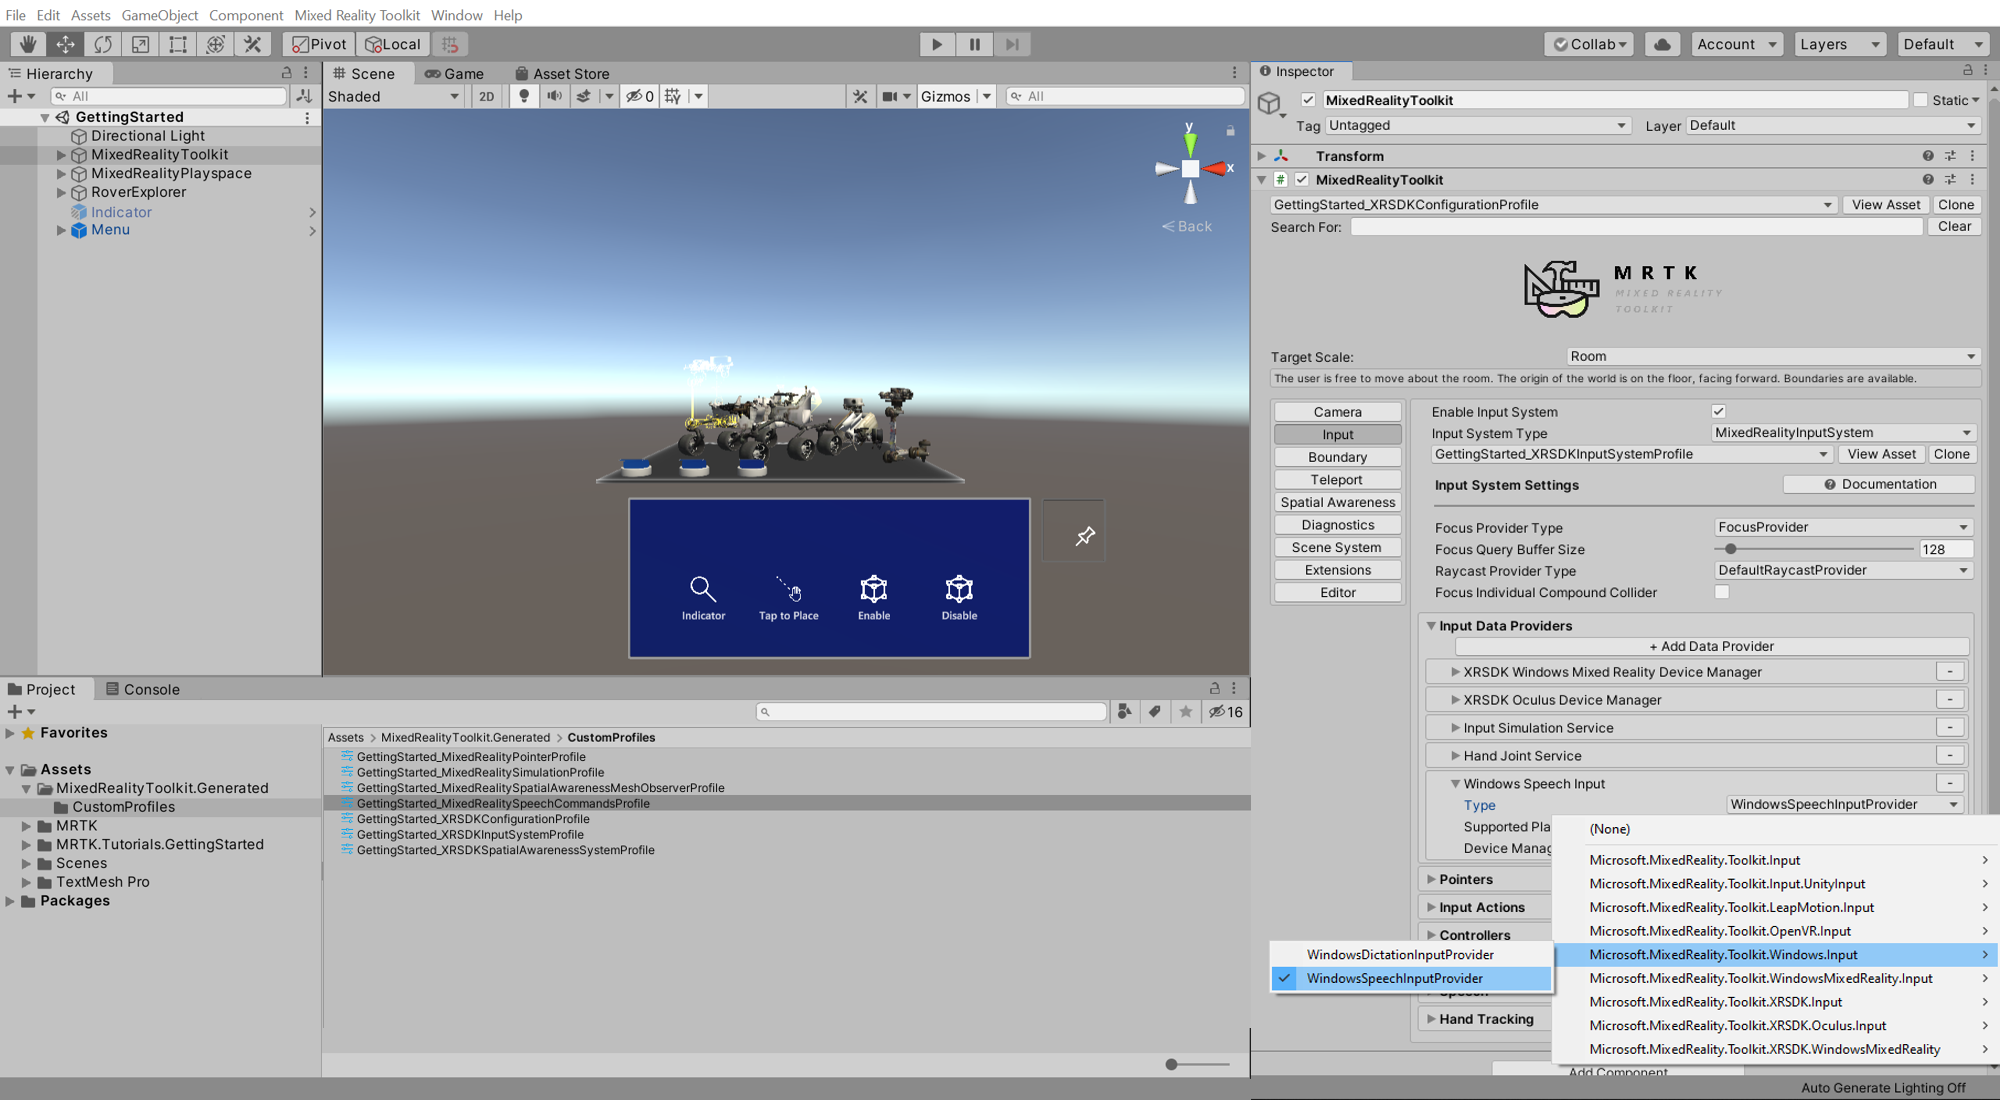
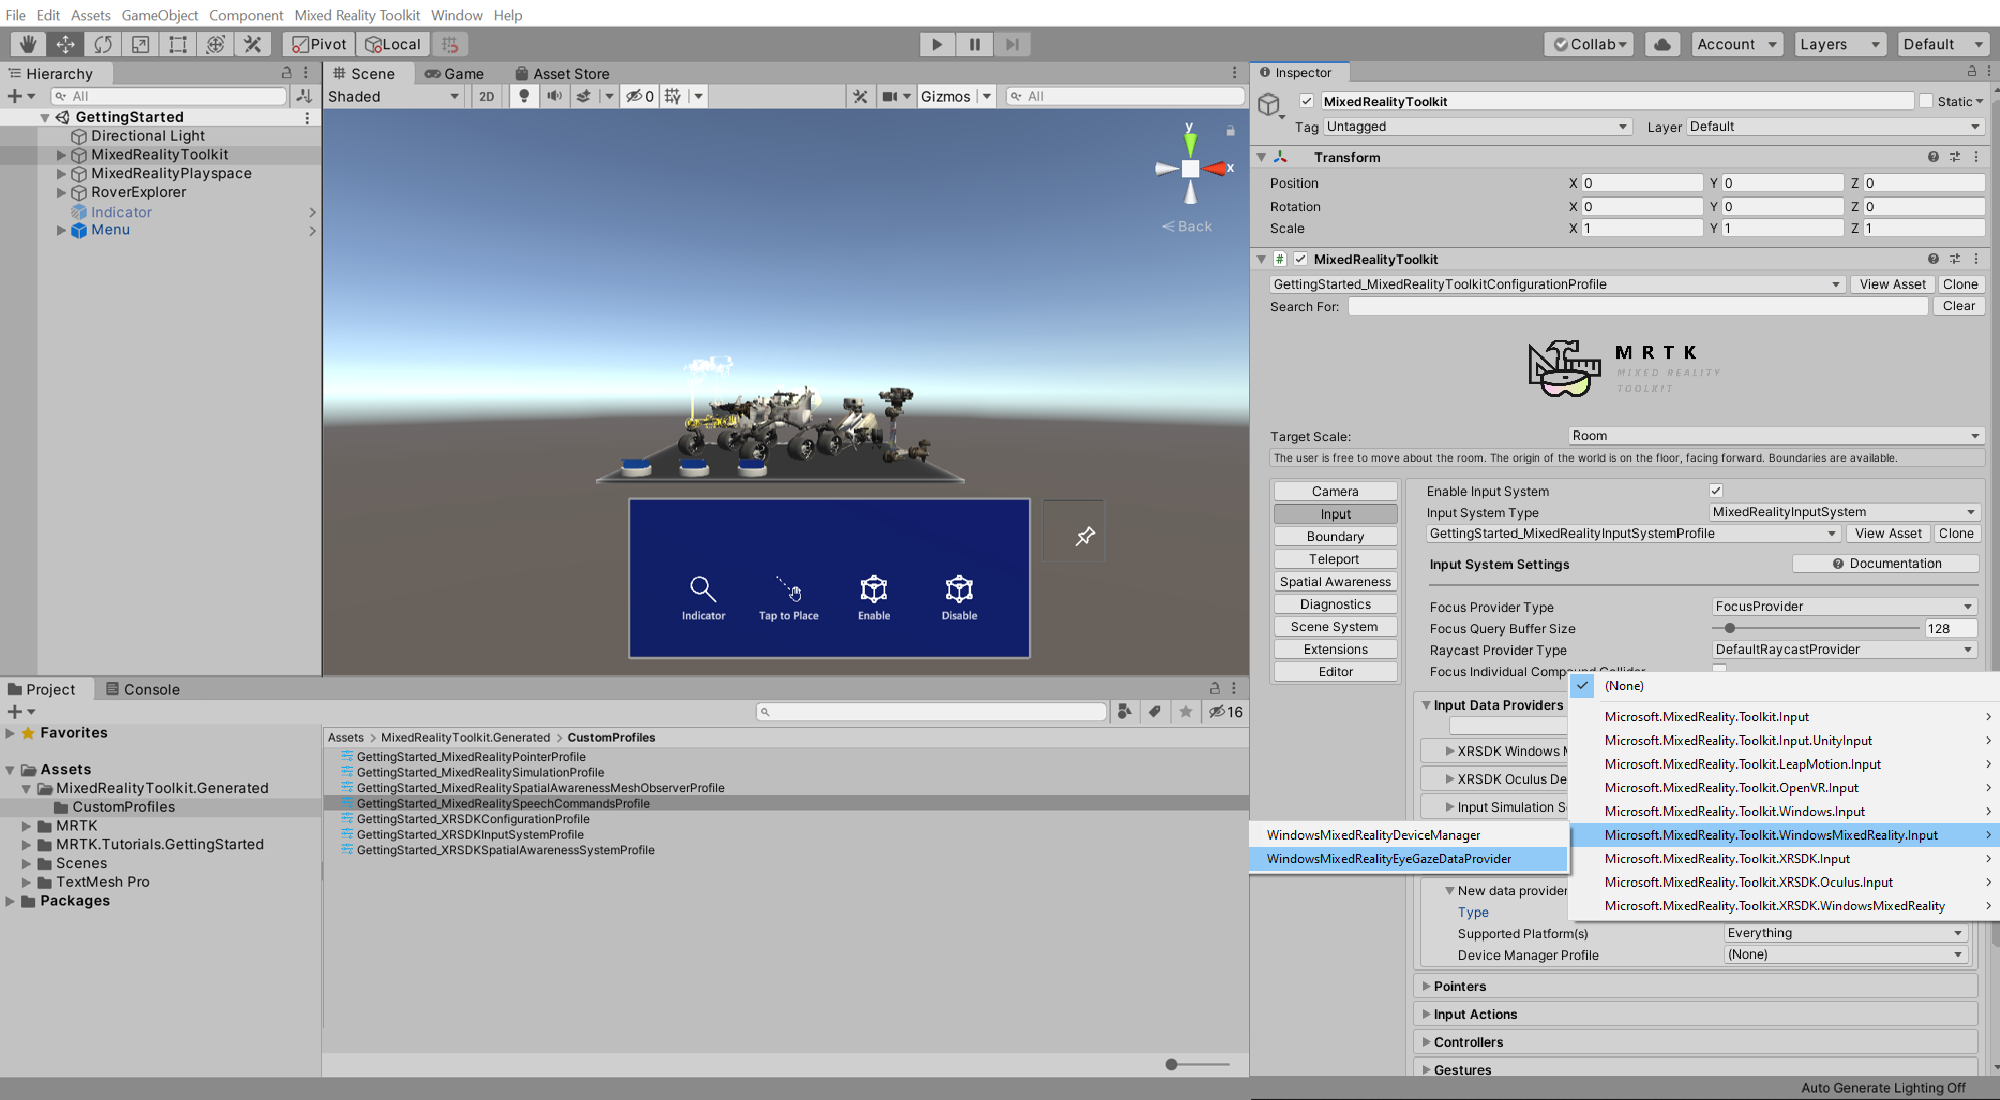
Eve Gaze data provider Image Updated

Changed region(s): [[0.62, 0.0618, 1.0, 0.9891]]

diff --git a/mixed-reality-docs/mr-dev-docs/develop/unity/tutorials/mr-learning-base-08.md b/mixed-reality-docs/mr-dev-docs/develop/unity/tutorials/mr-learning-base-08.md
@@ -36,7 +36,7 @@ In the Hierarchy window, select the MixedRealityToolkit object, then in the Insp
 
 ![Adding new speech commands](images/mr-learning-base/base-08-section1-step1-2.png)
 
-Assign **Microsoft.MixedReality.ToolKit.Windows.Input** > **WindowsMixedRealityEyeGazeProvider** to the **Type** field of the new Data Provider.
+Assign **Microsoft.MixedReality.ToolKit.WindowsMixedReality.Input** > **WindowsMixedRealityEyeGazeProvider** to the **Type** field of the new Data Provider.
 
 ![Adding new speech commands](images/mr-learning-base/base-08-section1-step1-3.png)
 
